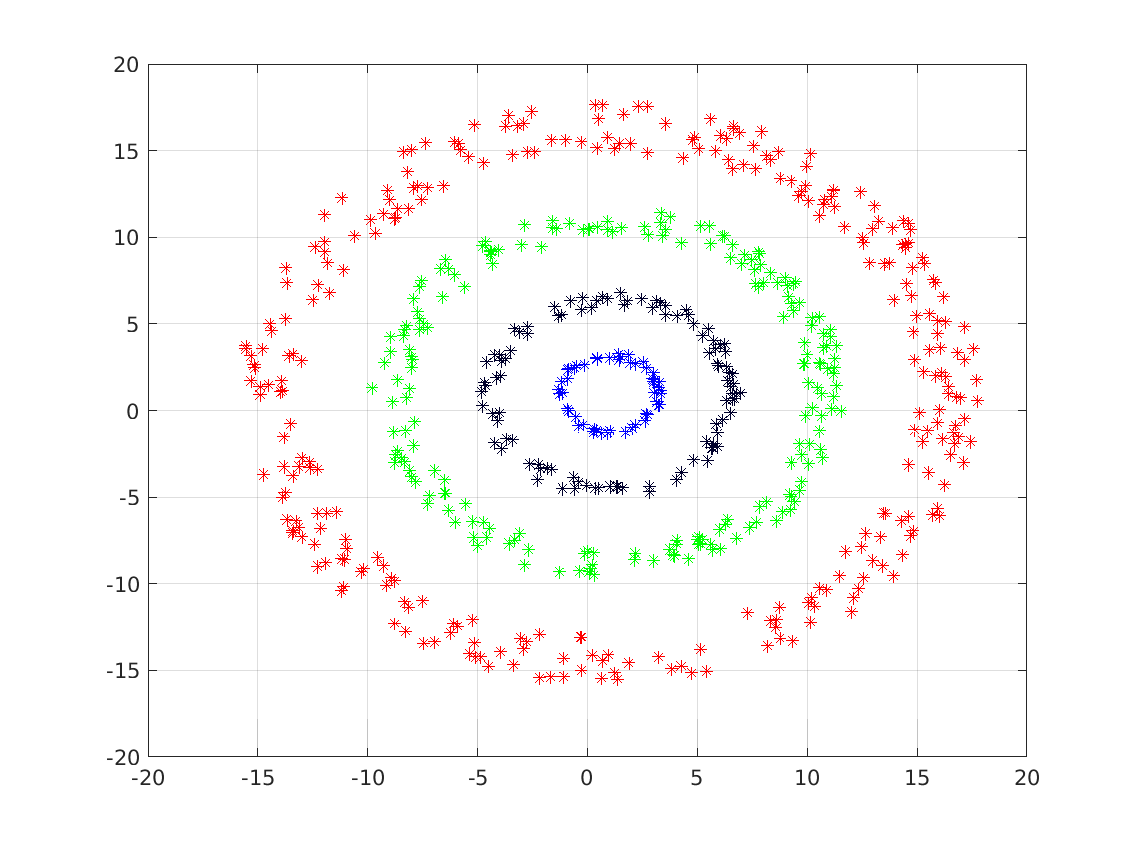
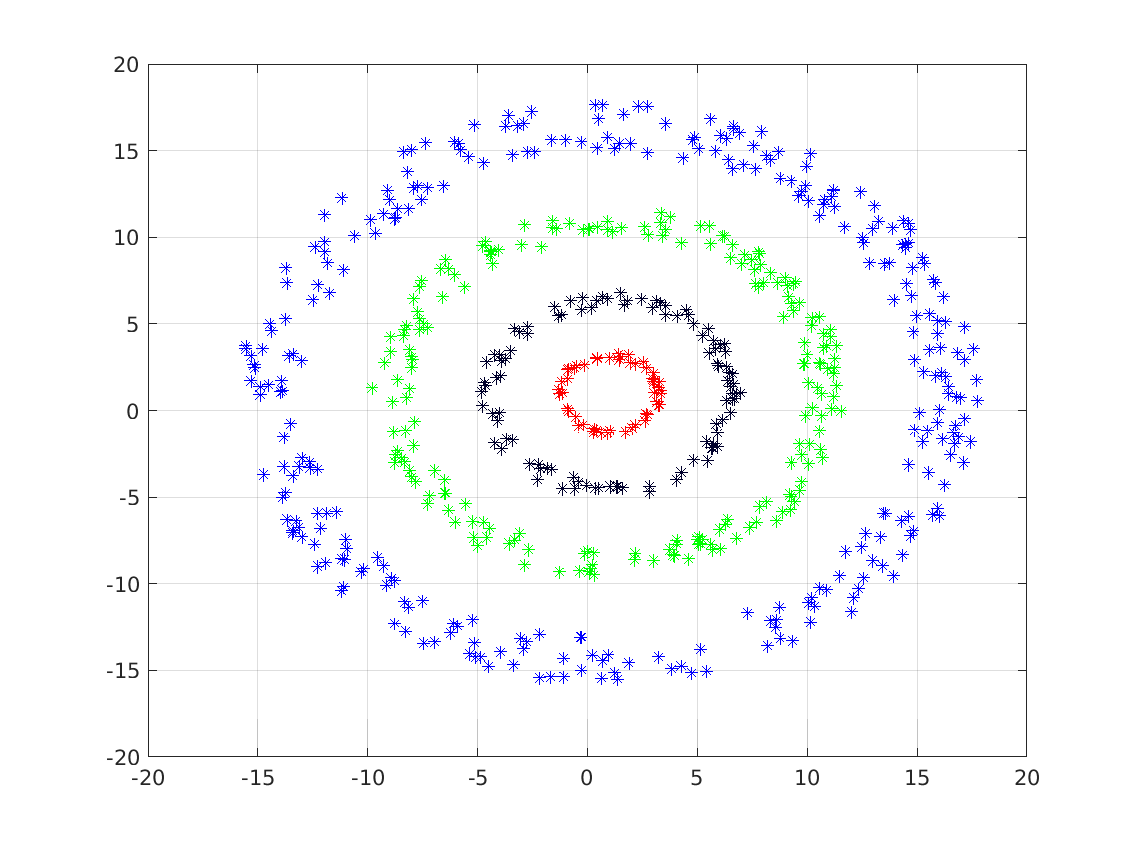
li

diff --git a/test_classification.m b/test_classification.m
@@ -13,9 +13,9 @@ clc;
 % jain           k = 2      OK      alpha = 3
 % spiral         k = 3      OK      alpha = 3
 
-dataset  = 'spiral';
-k        = 3;
-alpha    = 3;
+dataset  = 'cible';
+k        = 4;
+alpha    = 7;
 
 % Read Data
 Data = readmatrix(['/home/smdaa/2021Cluster/examples2018/COORD/', dataset, '/', dataset, '.txt']);
@@ -67,8 +67,34 @@ end
 
 saveas(gcf,[dataset, 'class.png'])
 
+L1 = sparse(L(1:(n/4), :));
+L2 = sparse(L((n/4)+1:(n/2), :));
+L3 = sparse(L((n/2)+1:(3*n/4), :));
+L4 = sparse(L((3*n/4)+1:end, :));
+
+mtxwrite(L1, ['/home/smdaa/nosave/test_eigen/', dataset, '_sparse/', dataset, '1.mtx']);
+mtxwrite(L2, ['/home/smdaa/nosave/test_eigen/', dataset, '_sparse/', dataset, '2.mtx']);
+mtxwrite(L3, ['/home/smdaa/nosave/test_eigen/', dataset, '_sparse/', dataset, '3.mtx']);
+mtxwrite(L4, ['/home/smdaa/nosave/test_eigen/', dataset, '_sparse/', dataset, '4.mtx']);
+
 
 disp(nnz(L) / size(Data, 1)^2)
-%figure();
-%spy(L);
-%saveas(gcf,[dataset, '.png'])
+figure();
+spy(L);
+saveas(gcf,[dataset, '.png'])
+
+figure();
+spy(L1);
+saveas(gcf,[dataset, '1.png'])
+
+figure();
+spy(L2);
+saveas(gcf,[dataset, '2.png'])
+
+figure();
+spy(L3);
+saveas(gcf,[dataset, '3.png'])
+
+figure();
+spy(L4);
+saveas(gcf,[dataset, '4.png'])
